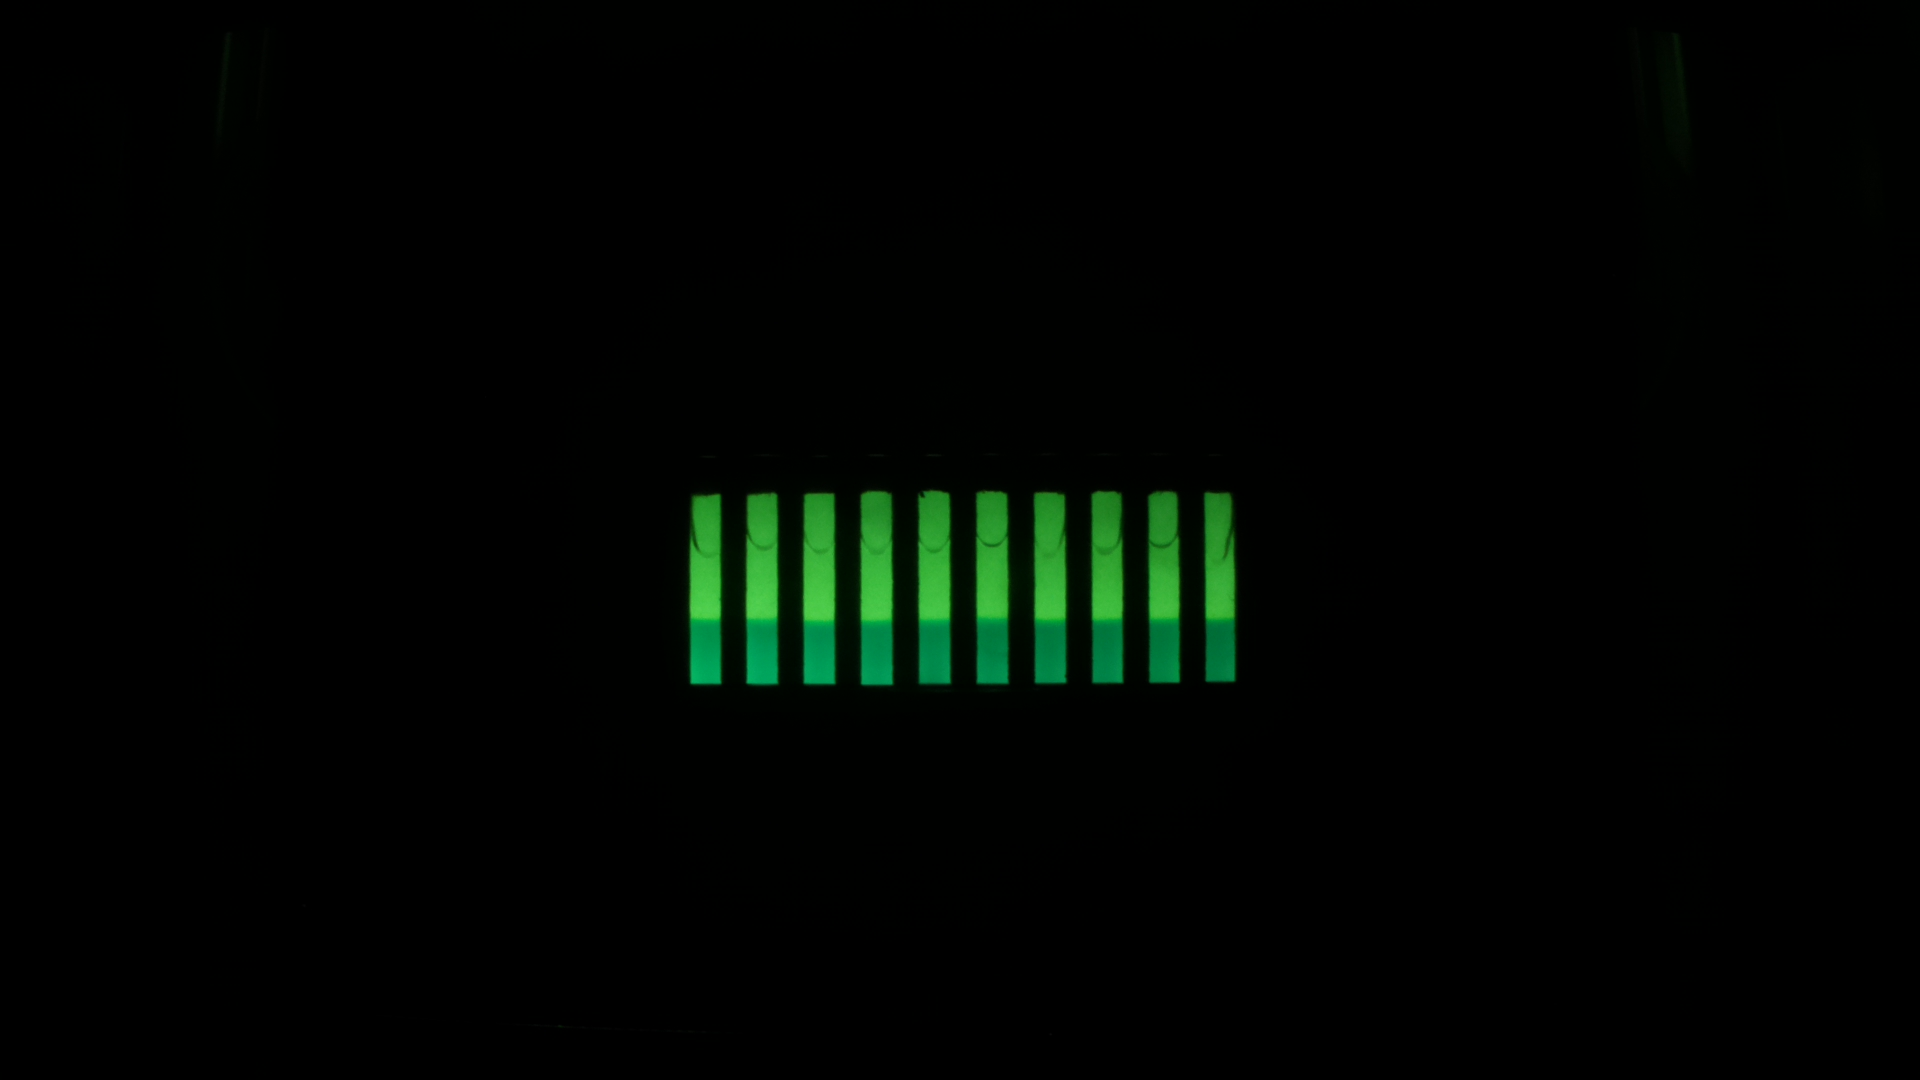
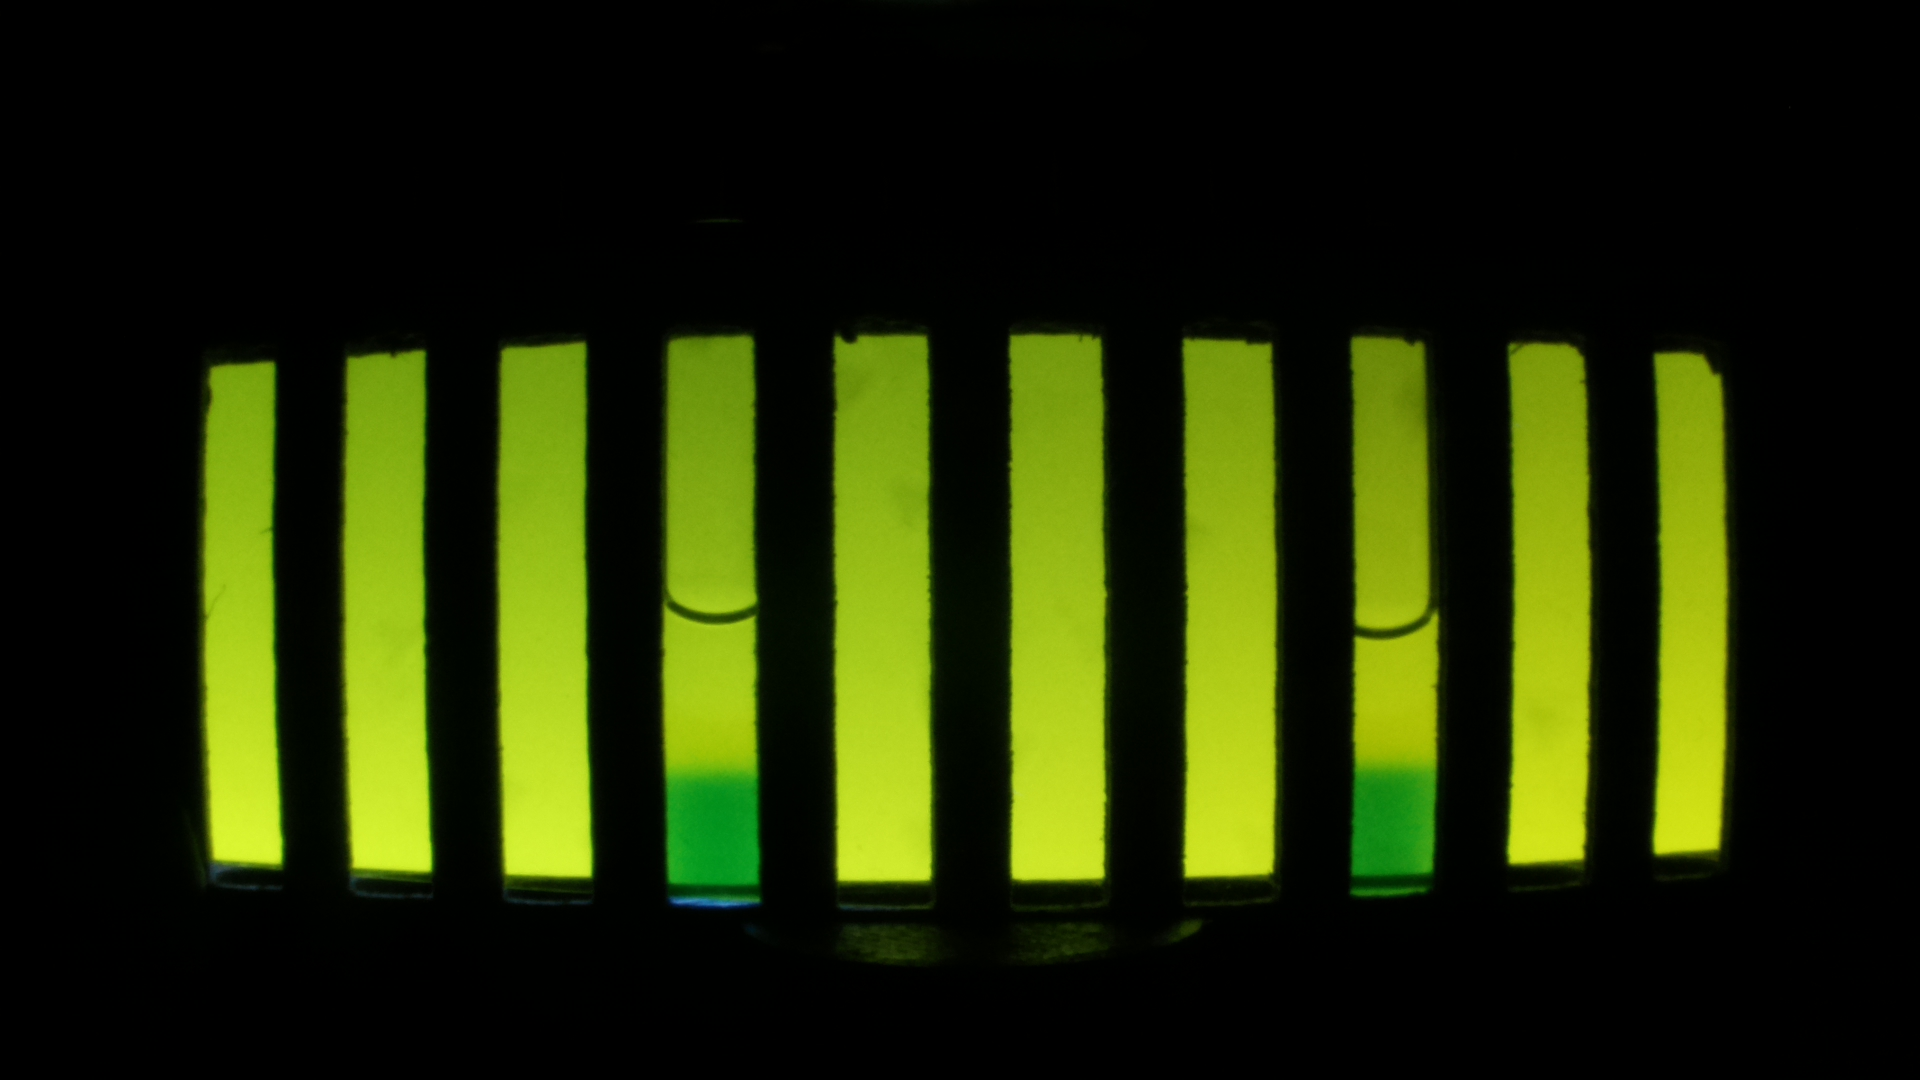
cut 50% height of küvette

Changed region(s): [[0.3438, 0.3056, 0.75, 0.9167], [0.0938, 0.3056, 0.3125, 0.8556], [0.7812, 0.3056, 0.9062, 0.825]]

diff --git a/houghAlgo.m b/houghAlgo.m
@@ -8,18 +8,22 @@ function [calculatedHeight] = houghAlgo(RGB)
     
     X = RGB;
     R = X(:,:,1);
-    figure, hold on, imshow(R);
+    %figure, hold on, imshow(R);
     %image(R), colormap([[0:1/255:1]', zeros(256,1), zeros(256,1)]), colorbar;
     %%%imshow(R); figure;
     
     Img2 = R;
     %Img2 = imbinarize(Img2);
     BW = imcomplement(Img2);
+    %figure, hold on, imshow(BW);
     %BW = Img2;
     %%%imshow(BW);
     Bimage = im2bw(Img2, 0.55); %%0.8 interessant
     Bimage = imcomplement(Bimage);
+    %figure, hold on, imshow(Bimage);
     BW = edge(Bimage,'prewitt');
+    %figure, hold on, imshow(Bimage);
+    point = 2;
     %%%imshow(Bimage);
     %figure;
     %%
@@ -34,8 +38,7 @@ function [calculatedHeight] = houghAlgo(RGB)
     x = theta(P(:,2));
     y = rho(P(:,1));
     lines = houghlines(BW, theta, rho, P, 'FillGap',3,'MinLength',4);
-    %figure, imshow(RGB),
-    %hold on
+    figure, imshow(RGB), hold on;
     max_len = 0;
     calculatedHeight = 0;
     countedHeightPoints = 0;
@@ -48,10 +51,10 @@ function [calculatedHeight] = houghAlgo(RGB)
         y2 = xy(2,2);
         lineFocusWeight = (y1 + y2)/2;
         %plot(xy(:,1),xy(:,2),'LineWidth',2);
-        if (lineFocusWeight < (0.85 * rows) && lineFocusWeight > (0.5) * rows)
+        if (lineFocusWeight < (0.85 * rows) && lineFocusWeight > (0.25) * rows)
             calculatedHeight = calculatedHeight + lineFocusWeight;
             countedHeightPoints = countedHeightPoints + 1; 
-            %plot(xy(:,1),xy(:,2),'LineWidth',2);
+            plot(xy(:,1),xy(:,2),'LineWidth',2);
         end
 
         %plot(xy(1,1),xy(1,2),'x','LineWidth',2,'Color','yellow');

diff --git a/Start.m b/Start.m
@@ -1,10 +1,13 @@
 init();
 
-image = images{6};
+image = images{10};
 %image = imread("newImage.jpg");
+figure,imshow(image), hold on;
+figure
 image = makeMoreYellow(image); %TODO: should be done in init() or an extra prepare method
-image = undistortImage(image, cameraParams); 
-
+%figure,hold on, imshow(image);
+image = undistortImage(image, cameraParams);
+%figure,hold on, imshow(image);
 stats = getBoundingBoxes(image); %TODO (noch sicherer): wenn 10 nicht erkannt werden sollten, dann solange weiter versuchen (mit anderen Bildern), bis 10 Objekte gefunden wurden
 stats = adjustBoundingBoxes(stats);
 
@@ -12,9 +15,10 @@ croppedImages = cutKuevetten(image,stats);
 
 
 for img=1 : length(croppedImages)
+    %figure, hold on, imshow(croppedImages{img});
     [rows, columns, numberOfColorChannels] = size(croppedImages{img});
     calculatedHeight = houghAlgo(croppedImages{img});
-    figure, imshow(croppedImages{img}), hold on;
+    %figure, imshow(croppedImages{img}), hold on;
     %line([calculatedHeight 0],[calculatedHeight columns]);
     line([0 columns],[calculatedHeight calculatedHeight],'Color','r','LineWidth',2); 
     %plot(0,calculatedHeight,columns,calculatedHeight,'LineWidth',2);

diff --git a/redplaneLineAlgo.m b/redplaneLineAlgo.m
@@ -1,13 +1,14 @@
 function [calculatedHeight] = redplaneLineAlgo(RGB)
     [rows, columns, numberOfColorChannels] = size(RGB);
     %Rotkanal extrahieren
+    %figure; hold on; imshow(RGB); 
     R = RGB(:,:,1);
     %image(R), colormap([[0:1/255:1]', zeros(256,1), zeros(256,1)]), colorbar;
-    %%figure; hold on; imshow(R); 
+    %figure; hold on; imshow(R); 
 
     %schwarz-weiß Bild
     bw = im2bw(R, 0.3);
-    figure; hold on; imshow(bw);
+    %figure; hold on; imshow(bw);
     
     y = rows;
     value = 0;

diff --git a/adjustBoundingBoxes.m b/adjustBoundingBoxes.m
@@ -2,9 +2,15 @@ function [stats] = adjustBoundingBoxes(stats)
     fn = fieldnames(stats);
     
     for k=1:length(stats)
+        %field(1)= linkester pixelstand (x1)
+        %field(2)= oberster pixelstand (y1)
+        %field(3)= breite
+        %field(4)= höhe
         field = stats(k).(fn{1});
         field(1) = field(1) + (0.3 * field(3));
         field(3) = field(3) * 0.3;
+        field(4) = field(4) / 2;
+        field(2) = field(2) + field(4);
         stats(k).(fn{1}) = field;
     end
 end

diff --git a/makeMoreYellow.m b/makeMoreYellow.m
@@ -1,4 +1,5 @@
-function [newimg] = makeMoreYellow(img)    
+function [newimg] = makeMoreYellow(img)   
+    %%%figure, hold on, imshow(img);
     %img = imread('image55.jpg');
     %subplot(2, 2, 1);
     %imshow(img);
@@ -26,6 +27,7 @@ function [newimg] = makeMoreYellow(img)
     newimg = cat(3, red, green, blue);
     %subplot(2, 2, 3);
     %imshow(newimg);
+    %%%figure, hold on, imshow(newimg);
     %title('Changed Image', 'FontSize', 20);
     %drawnow;
     %imwrite(newimg,"newImage.jpg");
